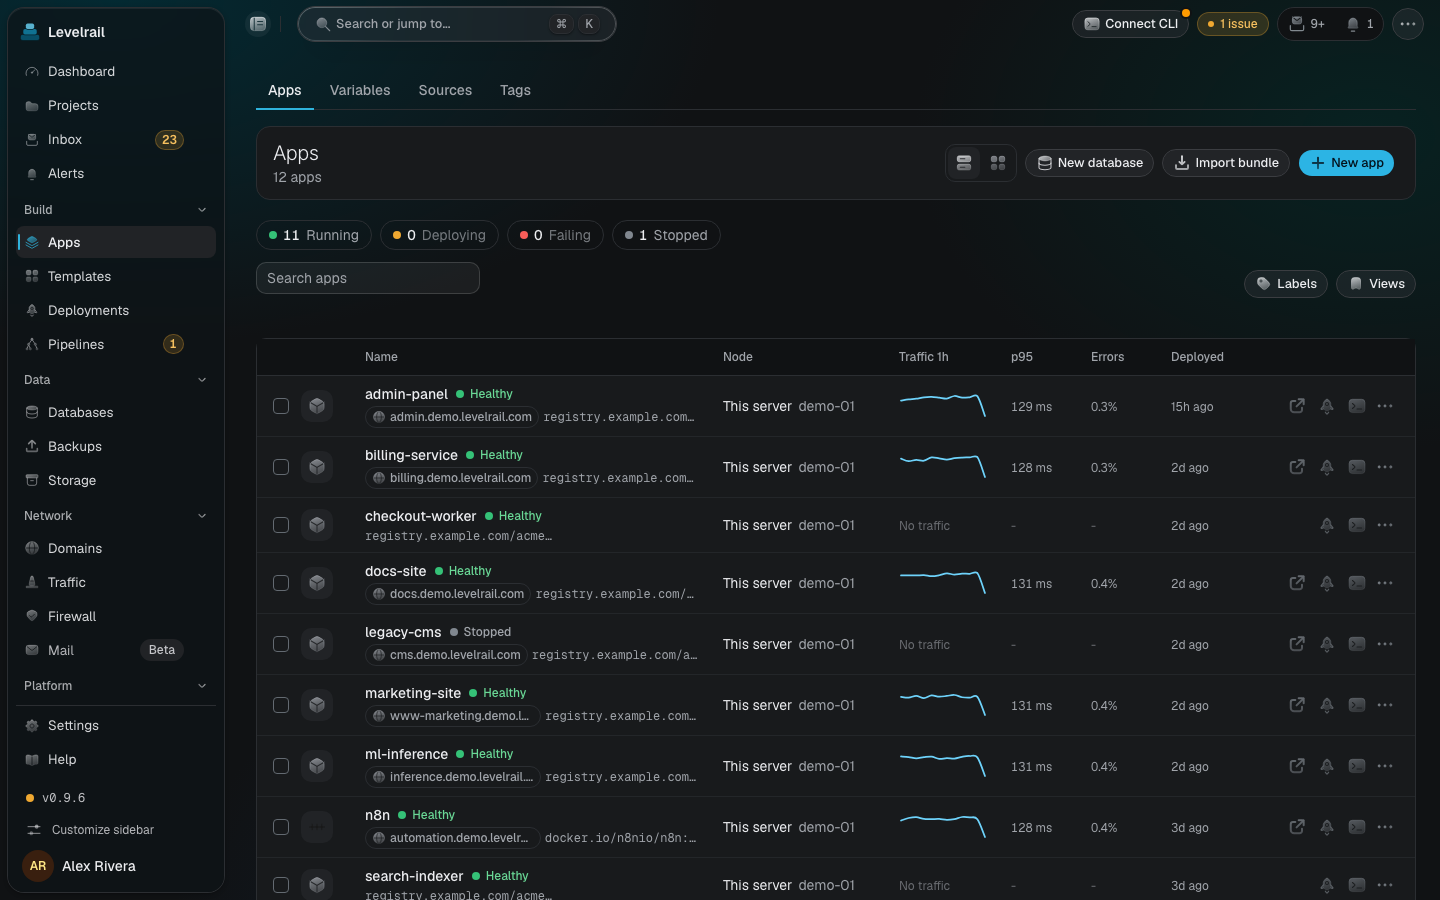
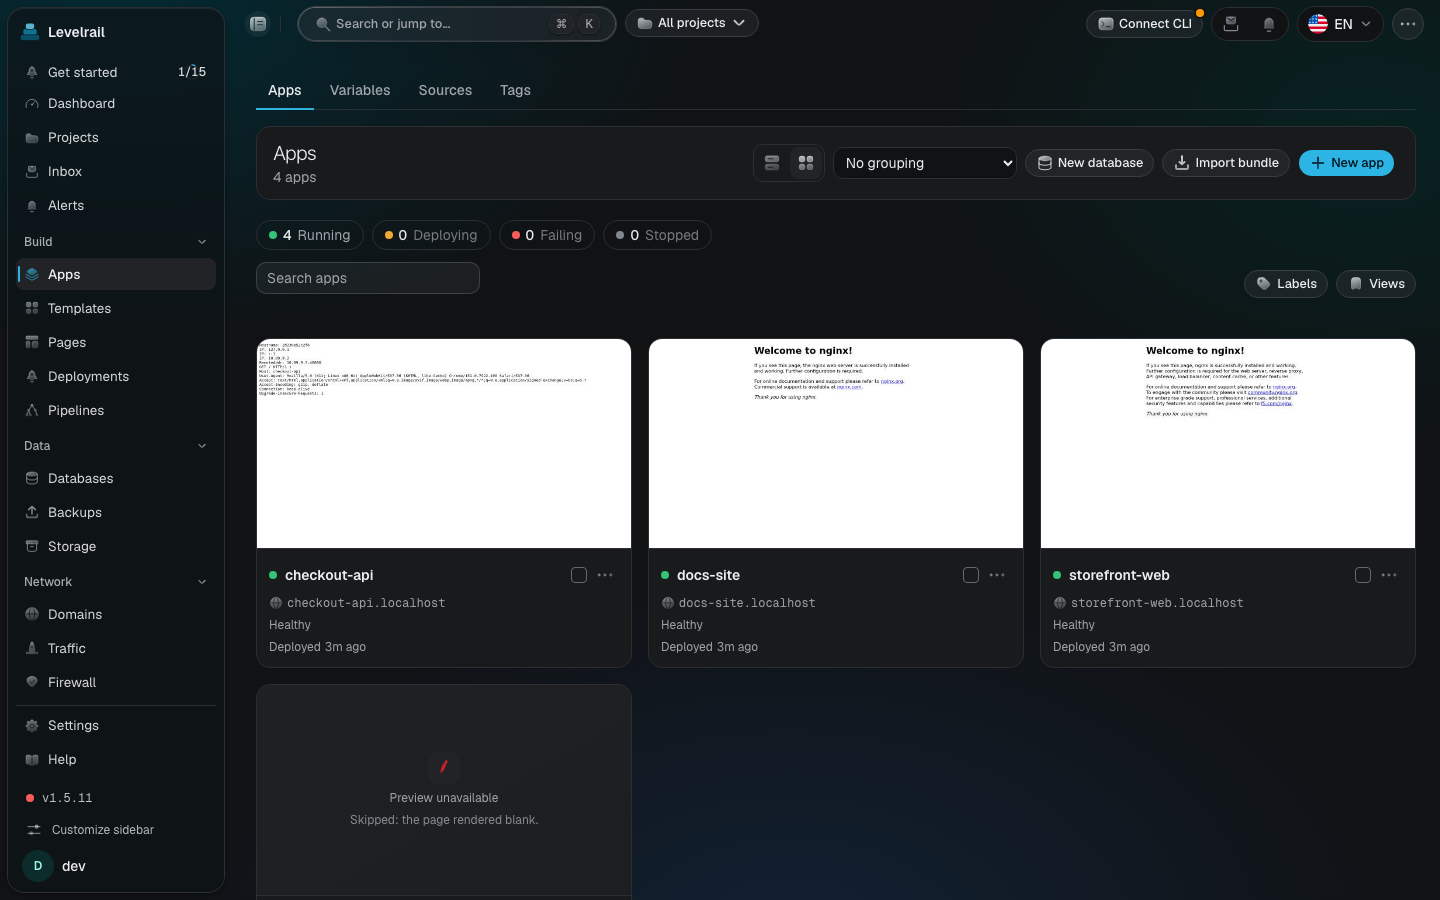
docs: fresh dashboard screenshots, README carousel and thumbnails (#1744)
* docs: refresh dashboard screenshots with the v1.5.11 database pages

* docs: README carousel and thumbnails

* docs: polish dashboard screenshots (no environment warnings, complete dashboard layout)

* docs: rebuild the README carousel

* docs: README carousel and thumbnail strip with fresh screenshots

An animated slideshow (light and dark) under the flow diagram, with a row of clickable thumbnails that open the full screenshots.

diff --git a/README.md b/README.md
@@ -36,6 +36,17 @@ flowchart LR
   deploy -. "fails its health check" .-> back["Rolled back"]
 ```
 
+<p align="center"><picture><source media="(prefers-color-scheme: dark)" srcset="docs/assets/readme/carousel-dark.webp"><img src="docs/assets/readme/carousel-light.webp" alt="Levelrail dashboard tour: dashboard, live deploy logs, databases, branches, SQL console and schema map" width="880"></picture></p>
+
+<p align="center">
+<a href="docs/assets/screenshots/dashboard-home.png"><picture><source media="(prefers-color-scheme: dark)" srcset="docs/assets/readme/thumb-1-dashboard-home-dark.webp"><img src="docs/assets/readme/thumb-1-dashboard-home-light.webp" alt="Dashboard" width="136"></picture></a>
+<a href="docs/assets/screenshots/deploy-live-log.png"><picture><source media="(prefers-color-scheme: dark)" srcset="docs/assets/readme/thumb-2-deploy-live-log-dark.webp"><img src="docs/assets/readme/thumb-2-deploy-live-log-light.webp" alt="Deploys with live logs" width="136"></picture></a>
+<a href="docs/assets/screenshots/databases-list.png"><picture><source media="(prefers-color-scheme: dark)" srcset="docs/assets/readme/thumb-3-databases-list-dark.webp"><img src="docs/assets/readme/thumb-3-databases-list-light.webp" alt="Databases" width="136"></picture></a>
+<a href="docs/assets/screenshots/database-branches.png"><picture><source media="(prefers-color-scheme: dark)" srcset="docs/assets/readme/thumb-4-database-branches-dark.webp"><img src="docs/assets/readme/thumb-4-database-branches-light.webp" alt="Database branches" width="136"></picture></a>
+<a href="docs/assets/screenshots/database-sql-editor.png"><picture><source media="(prefers-color-scheme: dark)" srcset="docs/assets/readme/thumb-5-database-sql-editor-dark.webp"><img src="docs/assets/readme/thumb-5-database-sql-editor-light.webp" alt="SQL console" width="136"></picture></a>
+<a href="docs/assets/screenshots/database-schema-map.png"><picture><source media="(prefers-color-scheme: dark)" srcset="docs/assets/readme/thumb-6-database-schema-map-dark.webp"><img src="docs/assets/readme/thumb-6-database-schema-map-light.webp" alt="Schema map" width="136"></picture></a>
+</p>
+
 **Get started:** [install on a Linux server in one line](#install), [try the live demo](https://demo.levelrail.com) first, or follow [First 15 minutes](docs/first-15-minutes.md). Coming from Coolify, Dokku, Dokploy, CapRover, Kamal, Heroku, Railway, Netlify, Vercel or Cloud Run? The [side by side pages](docs/comparison.md) cover each: [Coolify](docs/coolify-alternative.md), [Dokku](docs/dokku-alternative.md), [Dokploy](docs/dokploy-alternative.md), [CapRover](docs/caprover-alternative.md), [Kamal](docs/kamal-alternative.md), [Heroku](docs/heroku-alternative.md), [Railway](docs/railway-alternative.md), [Netlify](docs/netlify-alternative.md), [Vercel](docs/vercel-alternative.md), [Cloud Run](docs/cloud-run-alternative.md).
 
 v1.x. Single-server is production ready, multi-node is beta. Levelrail works with the Kubernetes clusters and cloud accounts you already have, and every feature carries a stable, beta or experimental label in [Feature status](docs/feature-status.md).
